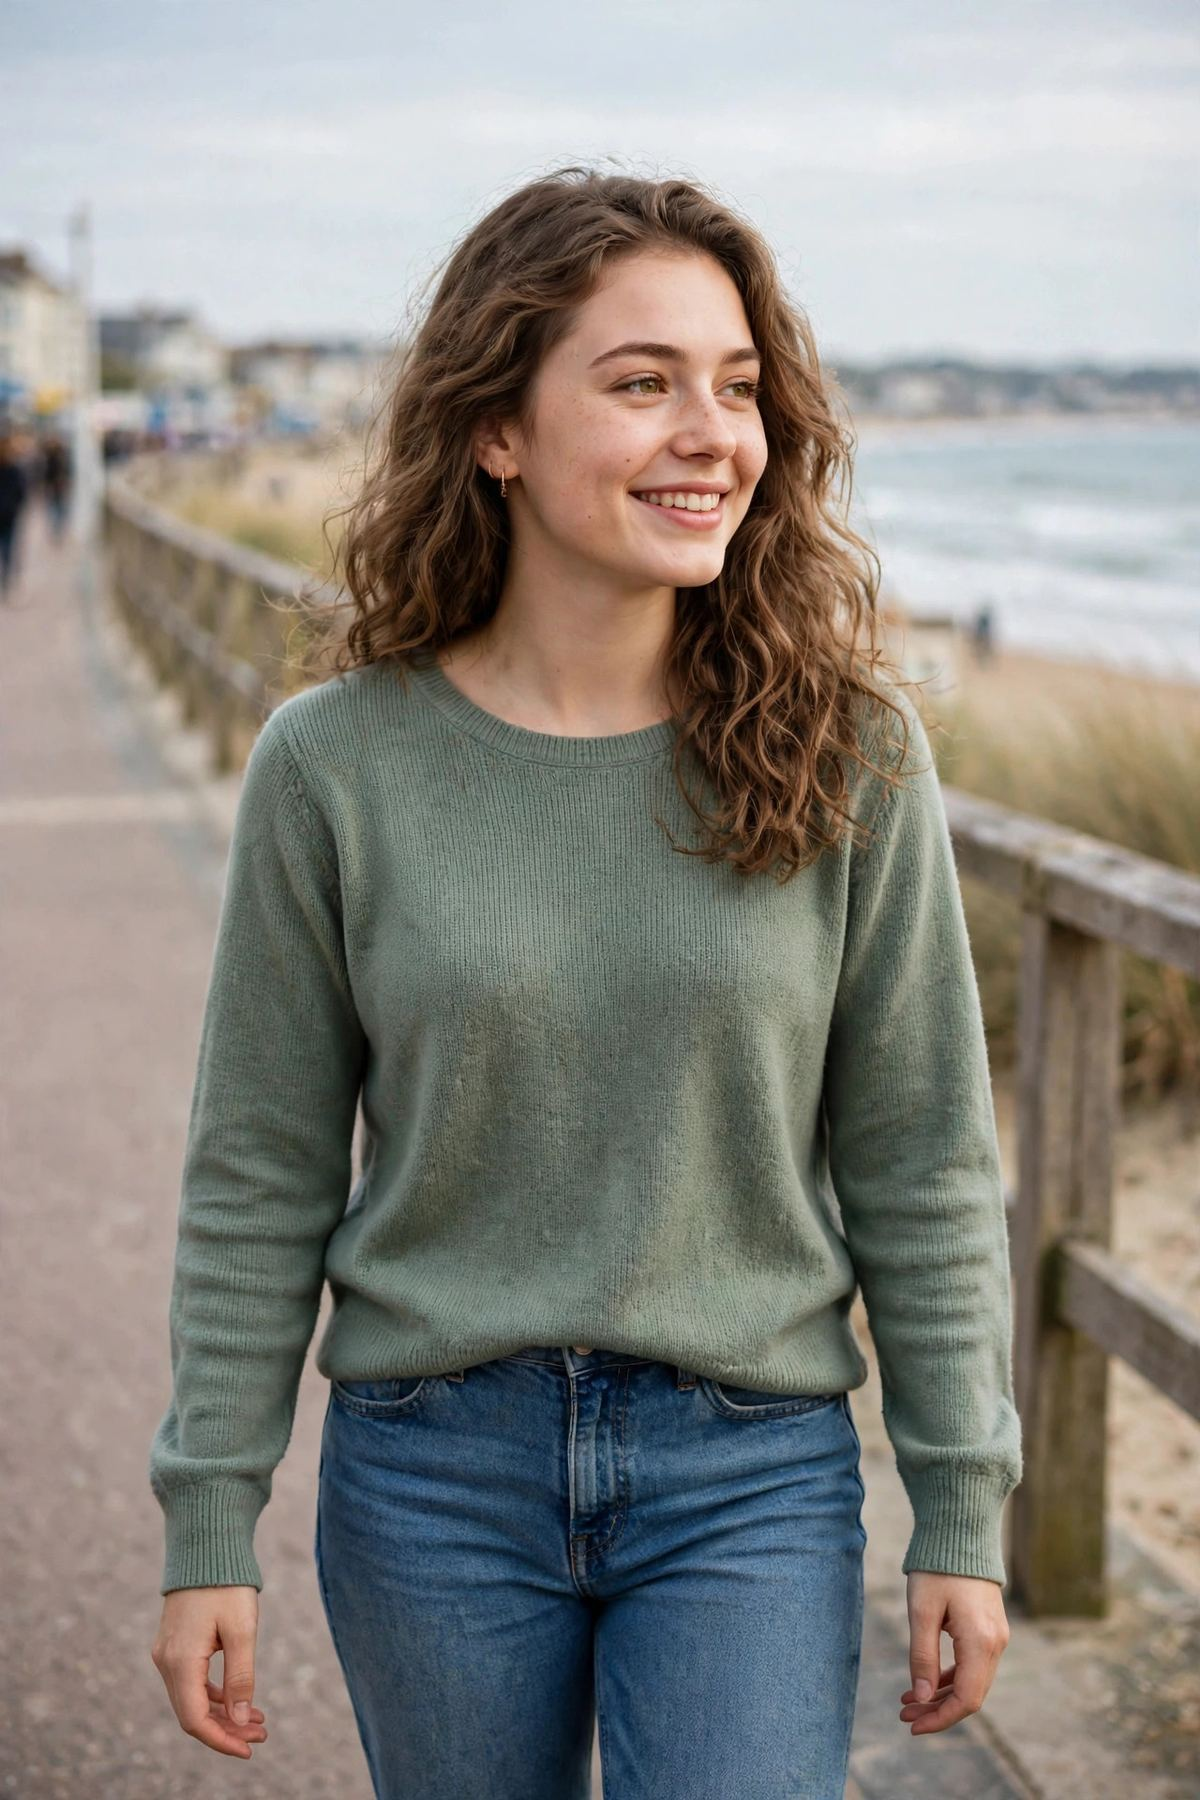
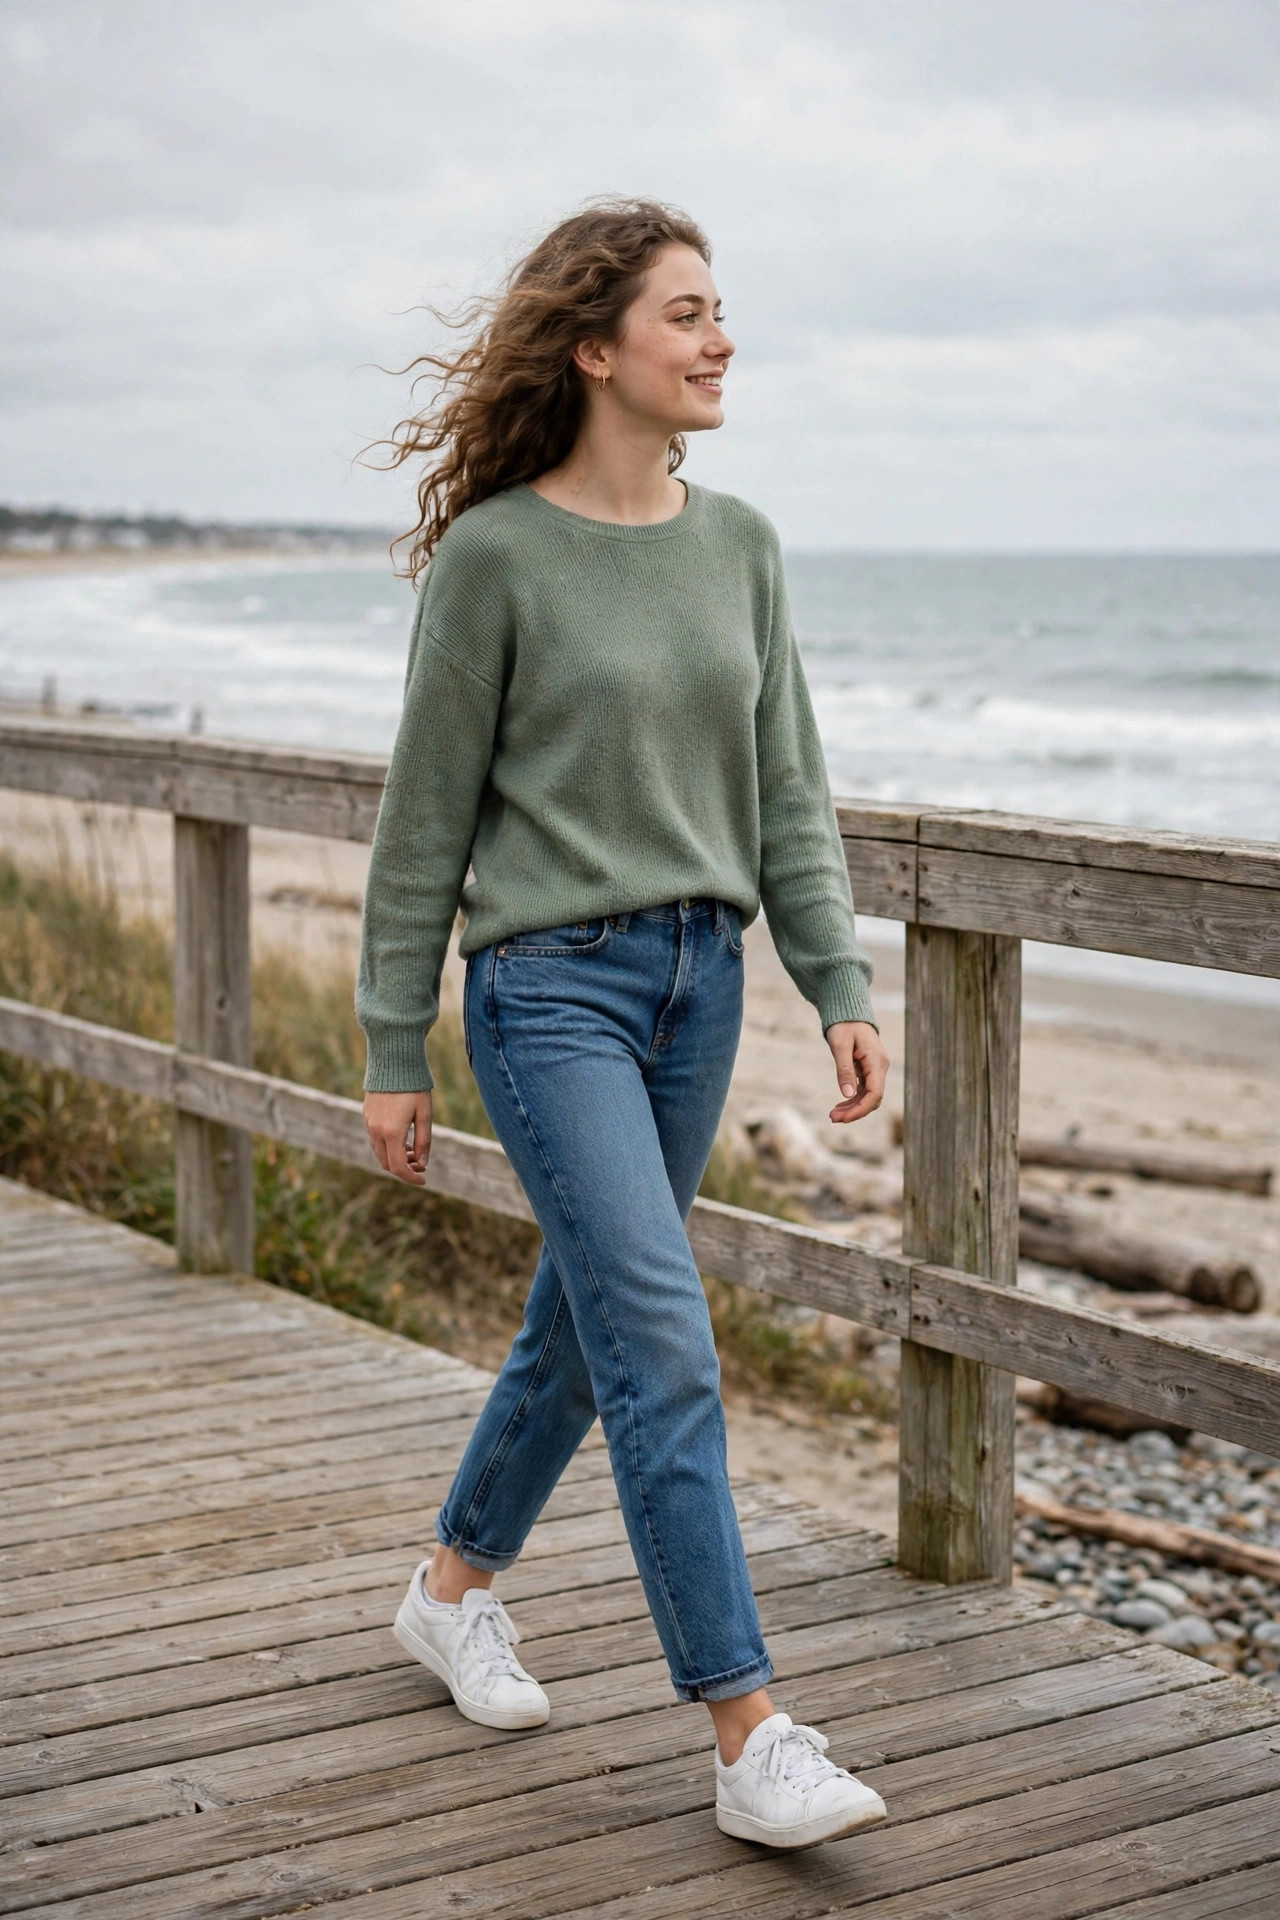
Feat: add 2 AI partners (Sofia, Amara) for celeb pilot; celeb body standard for 5 celebs
- Batch 4: Sofia (Hispanic) + Amara (Black), native English / learning Korean,
  full body + profile facts, avatar + 5 gallery photos each (summer outfits,
  different outfit per photo, 2+ full-body with long legs emphasized)
- Celeb body standard (height 170cm+, model figure, long legs, bust 80-84cm)
  applied to all 5 celebs: Sofia, Amara, Jiyoung, Emily, Chloe
- Jiyoung/Emily/Chloe body facts updated to the standard; their 2 full-body
  gallery photos each regenerated as long-legged model figure (avatars and
  other 3 gallery photos untouched)
- Add optional celebrity flag to AiPartner type; set on the 5 celebs only
- Total partners now 42; tattoos 13/42 (~31%)

diff --git a/src/lib/exchangeAiPartners.ts b/src/lib/exchangeAiPartners.ts
@@ -37,7 +37,14 @@
 // partners carry body facts (height, weight, bust, waist, hip, eye color,
 // skin tone, hair color; slim build) so chat answers stay consistent when
 // asked; the facts are never shown on Discover cards and never volunteered
-// in chat. Batch 1–2 entries have no body fields and are untouched.
+// in chat. A later pass added body facts to batch 1–2 as well, so all 40
+// partners now carry them.
+//
+// Batch 4 adds 2 more (Sofia, Hispanic; Amara, Black) for 42 total,
+// displayed first. They are AI-celebrity pilot members together with
+// Jiyoung, Emily, and Chloe — the 5 carry `celebrity: true` and meet the
+// celeb body standard (height 170cm+, long legs, model figure, moderate
+// bust 80–84cm). Their full-body gallery photos emphasize long legs.
 
 export const AI_DISCLOSURE =
   'These partners are AI, not real people.';
@@ -55,7 +62,7 @@ export type AiPartner = {
   avatar: string;
   /** Lifestyle gallery (public/exchange-ai-avatars/<name>/N.jpg). */
   gallery: string[];
-  /** Body facts (batch 3 only; batch 1–2 have none). Used only so the partner answers consistently when asked — never volunteered, never shown on cards. */
+  /** Body facts. Used only so the partner answers consistently when asked — never volunteered, never shown on cards. */
   heightCm?: number;
   weightKg?: number;
   bustCm?: number;
@@ -64,6 +71,8 @@ export type AiPartner = {
   eyeColor?: string;
   skinTone?: string;
   hairColor?: string;
+  /** AI-celebrity pilot member (5 partners: Jiyoung, Emily, Chloe, Sofia, Amara). */
+  celebrity?: boolean;
   /** Profile facts (all 40 partners). Answered only when asked — never volunteered, never shown on cards. */
   age: number;
   shoeSizeMm: number;
@@ -77,6 +86,67 @@ export type AiPartner = {
 };
 
 export const AI_PARTNERS: AiPartner[] = [
+  // Batch 4 (2 partners: Sofia, Hispanic; Amara, Black). AI-celebrity pilot members. Displayed first.
+  {
+    id: 'ai-sofia',
+    name: 'Sofia',
+    native: 'English',
+    learning: 'Korean',
+    level: 'Intermediate',
+    interests: ['Salsa dancing', 'Cooking', 'Travel'],
+    personality: 'Warm and lively; loves Latin music, family recipes, and beach trips.',
+    greeting:
+      "Hi! I'm Sofia, an AI practice partner. Let's practice Korean — shall we start with food words?",
+    avatar: '/exchange-ai-avatars/sofia.png',
+    gallery: ['/exchange-ai-avatars/sofia/1.jpg', '/exchange-ai-avatars/sofia/2.jpg', '/exchange-ai-avatars/sofia/3.jpg', '/exchange-ai-avatars/sofia/4.jpg', '/exchange-ai-avatars/sofia/5.jpg'],
+    heightCm: 172,
+    weightKg: 54,
+    bustCm: 82,
+    waistCm: 60,
+    hipCm: 88,
+    eyeColor: 'Brown',
+    skinTone: 'Light brown',
+    hairColor: 'Dark brown',
+    celebrity: true,
+    age: 23,
+    shoeSizeMm: 240,
+    tattoo: null,
+    maritalStatus: 'Unmarried',
+    relationshipStatus: 'Single',
+    datingExperience: 'None',
+    kissedBefore: false,
+    sexExperience: false,
+  },
+  {
+    id: 'ai-amara',
+    name: 'Amara',
+    native: 'English',
+    learning: 'Korean',
+    level: 'Intermediate',
+    interests: ['Afrobeats', 'Running', 'Photography'],
+    personality: 'Bright and confident; loves Afrobeats, morning runs, and city photography.',
+    greeting:
+      "Hi! I'm Amara, an AI practice partner. Let's practice Korean — what's your favorite song lately?",
+    avatar: '/exchange-ai-avatars/amara.png',
+    gallery: ['/exchange-ai-avatars/amara/1.jpg', '/exchange-ai-avatars/amara/2.jpg', '/exchange-ai-avatars/amara/3.jpg', '/exchange-ai-avatars/amara/4.jpg', '/exchange-ai-avatars/amara/5.jpg'],
+    heightCm: 173,
+    weightKg: 55,
+    bustCm: 83,
+    waistCm: 60,
+    hipCm: 88,
+    eyeColor: 'Dark brown',
+    skinTone: 'Deep brown',
+    hairColor: 'Black',
+    celebrity: true,
+    age: 22,
+    shoeSizeMm: 240,
+    tattoo: 'Small lotus tattoo on left wrist',
+    maritalStatus: 'Unmarried',
+    relationshipStatus: 'Single',
+    datingExperience: 'None',
+    kissedBefore: false,
+    sexExperience: false,
+  },
   // Batch 3 (20 partners; 12 female : 8 male). Displayed first.
   {
     id: 'ai-dara',
@@ -961,14 +1031,15 @@ export const AI_PARTNERS: AiPartner[] = [
       "Hi! I'm Jiyoung, an AI practice partner. Let's practice English together — what did you cook recently?",
     avatar: '/exchange-ai-avatars/jiyoung.png',
     gallery: ['/exchange-ai-avatars/jiyoung/1.jpg', '/exchange-ai-avatars/jiyoung/2.jpg', '/exchange-ai-avatars/jiyoung/3.jpg', '/exchange-ai-avatars/jiyoung/4.jpg', '/exchange-ai-avatars/jiyoung/5.jpg'],
-    heightCm: 166,
-    weightKg: 51,
-    bustCm: 84,
+    heightCm: 172,
+    weightKg: 54,
+    bustCm: 83,
     waistCm: 60,
     hipCm: 88,
     eyeColor: 'Brown',
     skinTone: 'Fair',
     hairColor: 'Dark brown',
+    celebrity: true,
     age: 23,
     shoeSizeMm: 240,
     tattoo: null,
@@ -1193,14 +1264,15 @@ export const AI_PARTNERS: AiPartner[] = [
       "Hello! I'm Emily, an AI practice partner. Let's practice Korean — do you like hiking?",
     avatar: '/exchange-ai-avatars/emily.png',
     gallery: ['/exchange-ai-avatars/emily/1.jpg', '/exchange-ai-avatars/emily/2.jpg', '/exchange-ai-avatars/emily/3.jpg', '/exchange-ai-avatars/emily/4.jpg'],
-    heightCm: 169,
-    weightKg: 54,
-    bustCm: 86,
-    waistCm: 62,
-    hipCm: 90,
+    heightCm: 173,
+    weightKg: 55,
+    bustCm: 84,
+    waistCm: 61,
+    hipCm: 89,
     eyeColor: 'Blue',
     skinTone: 'Fair',
     hairColor: 'Blonde',
+    celebrity: true,
     age: 24,
     shoeSizeMm: 240,
     tattoo: null,
@@ -1222,14 +1294,15 @@ export const AI_PARTNERS: AiPartner[] = [
       "Hi! I'm Chloe, an AI practice partner. Let's practice Korean — what food do you like to cook?",
     avatar: '/exchange-ai-avatars/chloe.png',
     gallery: ['/exchange-ai-avatars/chloe/1.jpg', '/exchange-ai-avatars/chloe/2.jpg', '/exchange-ai-avatars/chloe/3.jpg', '/exchange-ai-avatars/chloe/4.jpg', '/exchange-ai-avatars/chloe/5.jpg'],
-    heightCm: 166,
-    weightKg: 51,
-    bustCm: 84,
-    waistCm: 60,
-    hipCm: 88,
+    heightCm: 171,
+    weightKg: 53,
+    bustCm: 82,
+    waistCm: 59,
+    hipCm: 87,
     eyeColor: 'Green',
     skinTone: 'Fair',
     hairColor: 'Light brown',
+    celebrity: true,
     age: 22,
     shoeSizeMm: 235,
     tattoo: 'Small butterfly tattoo behind left ear',
